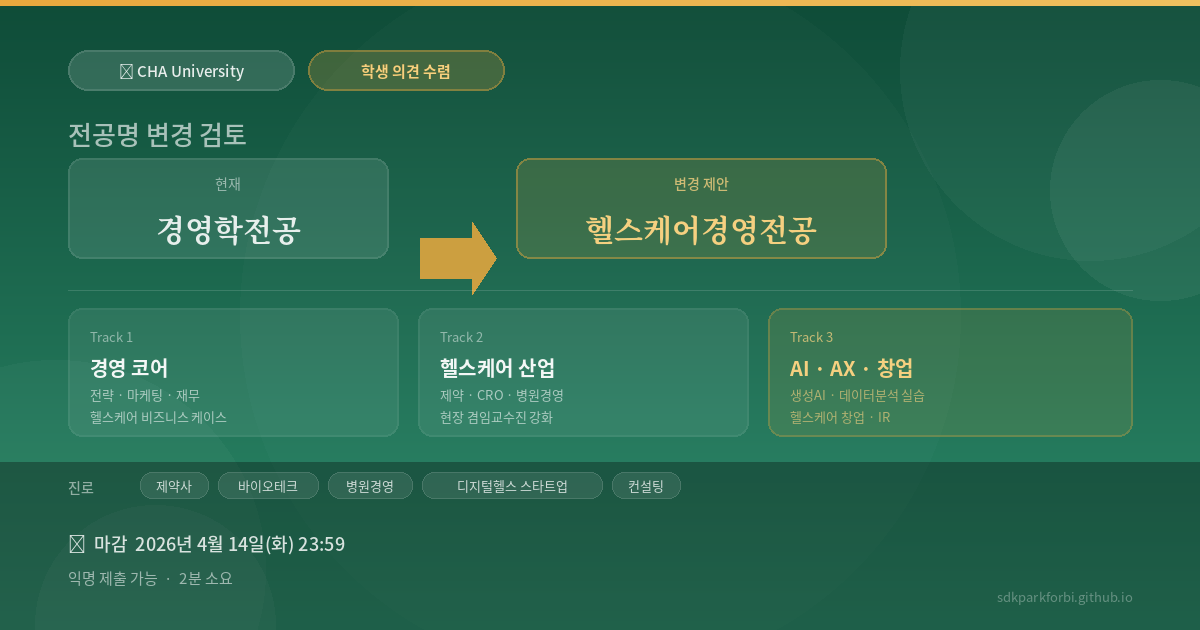
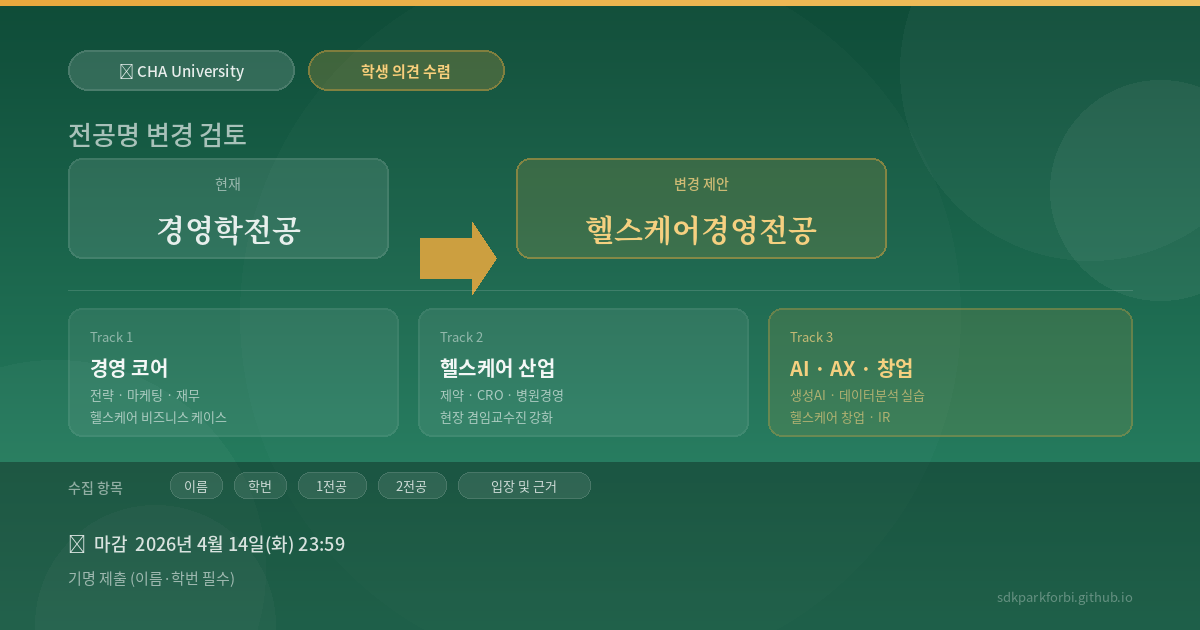
Add files via upload

Changed region(s): [[0.0617, 0.754, 0.4933, 0.7841], [0.0925, 0.9048, 0.2158, 0.9349], [0.5242, 0.754, 0.555, 0.7841]]

diff --git a/index.html b/index.html
@@ -8,7 +8,7 @@
   <meta property="og:type" content="website">
   <meta property="og:url" content="https://sdkparkforbi.github.io/opinion/">
   <meta property="og:title" content="경영학전공 → 헬스케어경영전공 | 학생 의견 수렴">
-  <meta property="og:description" content="전공명 변경에 대한 여러분의 의견을 들려주세요. 익명 제출 가능 · 마감 4월 14일(화) 23:59">
+  <meta property="og:description" content="전공명 변경에 대한 여러분의 의견을 들려주세요. 마감 4월 14일(화) 23:59">
   <meta property="og:image" content="https://sdkparkforbi.github.io/opinion/og-thumbnail.png">
   <meta property="og:image:width" content="1200">
   <meta property="og:image:height" content="630">
@@ -446,24 +446,46 @@
       <div class="form-section-title">기본 정보</div>
 
       <div class="field-group">
-        <label>이름 <span class="opt">(선택)</span></label>
-        <input type="text" name="name" placeholder="이름을 입력하세요">
+        <label>이름 <span class="req">*</span></label>
+        <input type="text" name="name" placeholder="이름을 입력하세요" required>
       </div>
 
       <div class="field-group">
-        <label>학번 / 학년 <span class="req">*</span></label>
-        <input type="text" name="grade" placeholder="예: 2학년 / 23학번" required>
+        <label>학번 <span class="req">*</span></label>
+        <input type="text" name="grade" placeholder="예: 20231234" required>
       </div>
 
       <div class="field-group">
-        <label>현재 소속 전공 <span class="req">*</span></label>
-        <select name="major" required>
+        <label>1전공 <span class="req">*</span></label>
+        <select name="major1" required>
           <option value="">선택하세요</option>
-          <option value="경영학전공">경영학전공</option>
-          <option value="디지털보건의료전공">디지털보건의료전공</option>
-          <option value="스포츠의학전공">스포츠의학전공</option>
-          <option value="AI헬스케어융합전공">AI헬스케어융합학과</option>
-          <option value="기타">기타</option>
+          <option value="세포·유전자재생의학">세포·유전자재생의학</option>
+          <option value="바이오식의약학">바이오식의약학</option>
+          <option value="시스템생명과학">시스템생명과학</option>
+          <option value="스포츠의학">스포츠의학</option>
+          <option value="심리학">심리학</option>
+          <option value="미술치료">미술치료</option>
+          <option value="경영학">경영학</option>
+          <option value="미디어커뮤니케이션학">미디어커뮤니케이션학</option>
+          <option value="AI의료데이터학">AI의료데이터학</option>
+          <option value="소프트웨어융합">소프트웨어융합</option>
+        </select>
+      </div>
+
+      <div class="field-group">
+        <label>2전공 <span class="opt">(없으면 '없음' 선택)</span></label>
+        <select name="major2">
+          <option value="없음">없음</option>
+          <option value="세포·유전자재생의학">세포·유전자재생의학</option>
+          <option value="바이오식의약학">바이오식의약학</option>
+          <option value="시스템생명과학">시스템생명과학</option>
+          <option value="스포츠의학">스포츠의학</option>
+          <option value="심리학">심리학</option>
+          <option value="미술치료">미술치료</option>
+          <option value="경영학">경영학</option>
+          <option value="미디어커뮤니케이션학">미디어커뮤니케이션학</option>
+          <option value="AI의료데이터학">AI의료데이터학</option>
+          <option value="소프트웨어융합">소프트웨어융합</option>
         </select>
       </div>
 
@@ -554,7 +576,7 @@
 
       <button type="submit" class="submit-btn" id="submit-btn">의견 제출하기 →</button>
       <div class="privacy-note">
-        ※ 수집된 의견은 전공 개편 검토 목적으로만 활용되며,<br>이름은 선택 입력으로 익명 제출도 가능합니다.
+        ※ 수집된 의견은 전공 개편 검토 목적으로만 활용됩니다.<br>이름과 학번은 중복 제출 확인 용도로만 사용되며 외부에 공개되지 않습니다.
       </div>
     </form>
   </div>
@@ -563,7 +585,7 @@
 <script>
   // ───── CONFIGURATION ─────
   // Apps Script 배포 후 아래 URL을 교체하세요
-  const APPS_SCRIPT_URL = 'https://script.google.com/macros/s/AKfycbznspzagDExEYFFK2UlOmSTxIC4jj83CPTv-V1mGhR0FW8_qg8kppw2UQGbW60-CTzt/exec';
+  const APPS_SCRIPT_URL = 'https://script.google.com/macros/s/AKfycbyfqXefrSiuC27G-fzc_2MvvLUUnJx3qKmo1ZqufvNxoCjgQyfP1lvHS8ajnM0u7swT/exec';
   const DEADLINE = new Date('2026-04-14T23:59:00+09:00');
   // ─────────────────────────
 
@@ -627,9 +649,10 @@
     const stance = form.stance.value;
     const data = {
       timestamp: new Date().toLocaleString('ko-KR', {timeZone: 'Asia/Seoul'}),
-      name: form.name.value || '익명',
+      name: form.name.value,
       grade: form.grade.value,
-      major: form.major.value,
+      major1: form.major1.value,
+      major2: form.major2.value,
       stance: stance,
       reason: stance === '찬성' ? form.reason_agree.value :
                stance === '조건부 찬성' ? form.reason_cond.value :
